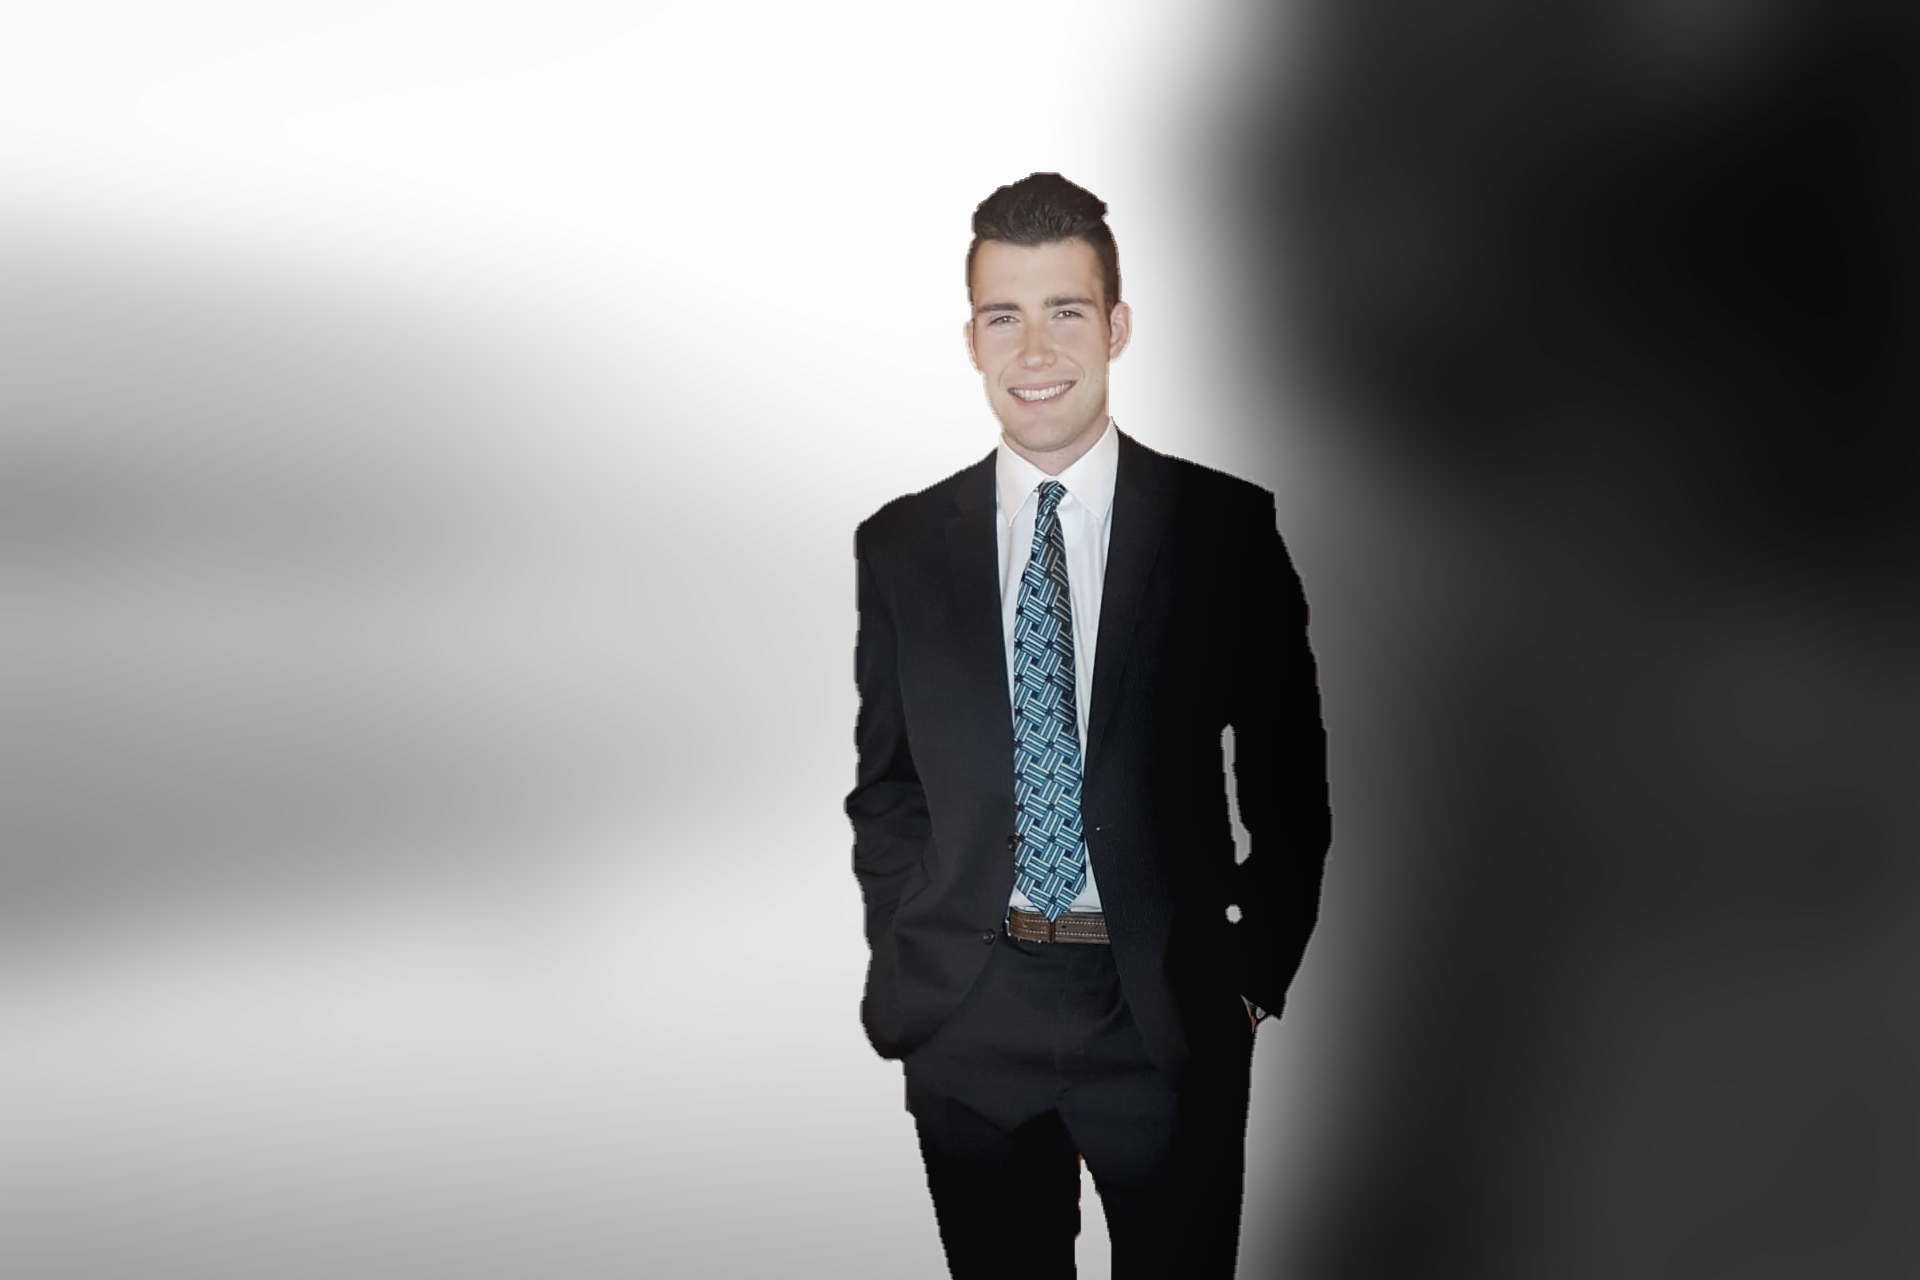
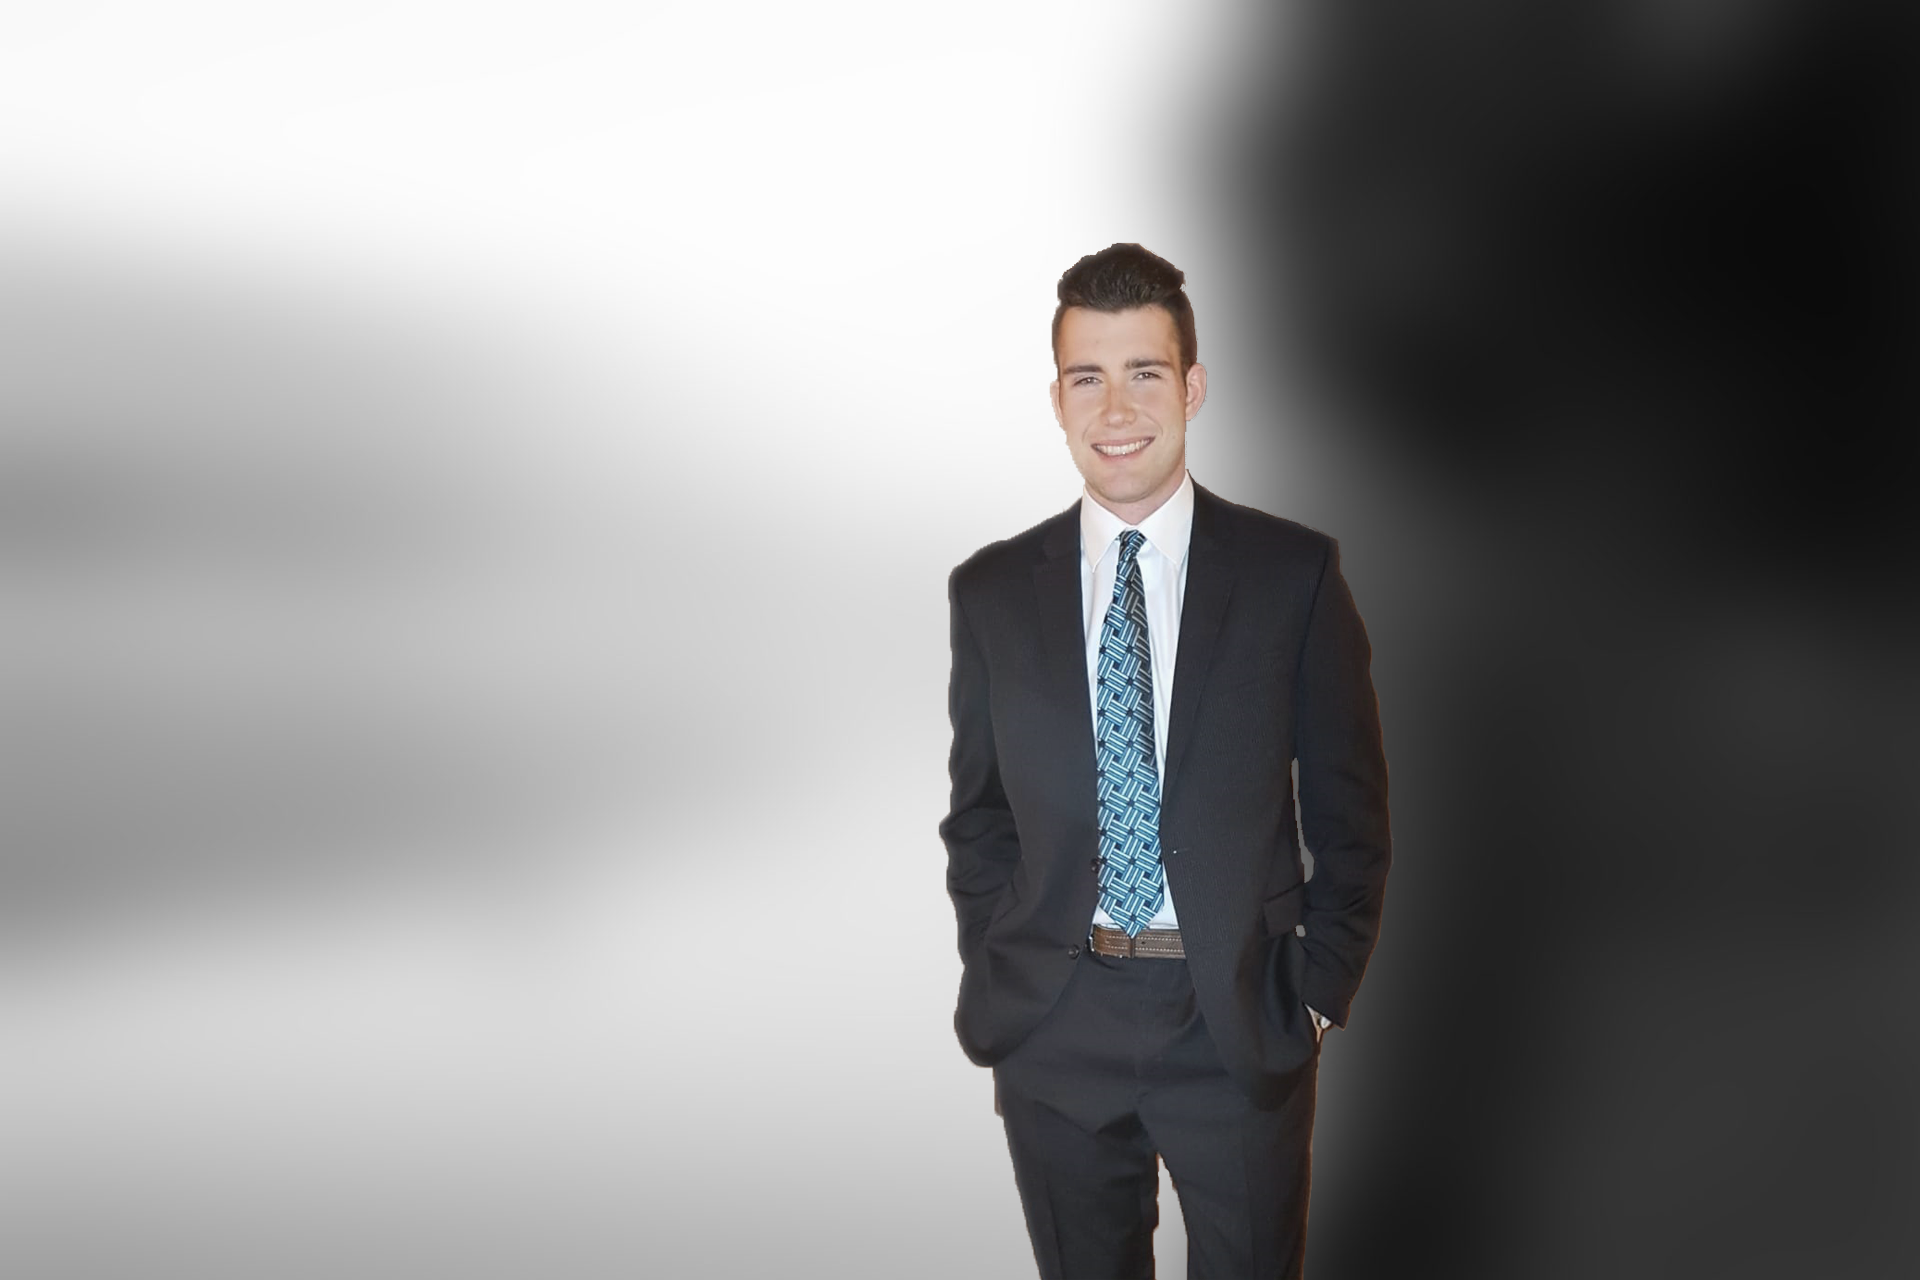
new pic

Changed region(s): [[0.4375, 0.125, 0.75, 1.0]]

diff --git a/css/style.css b/css/style.css
@@ -275,7 +275,7 @@ a.active {
 ==================================================*/
 
 #home {
-    background: url(../img/test.png);
+    background: url(../img/elevated.png);
     background-size: cover;
     height: 100vh;
 }
